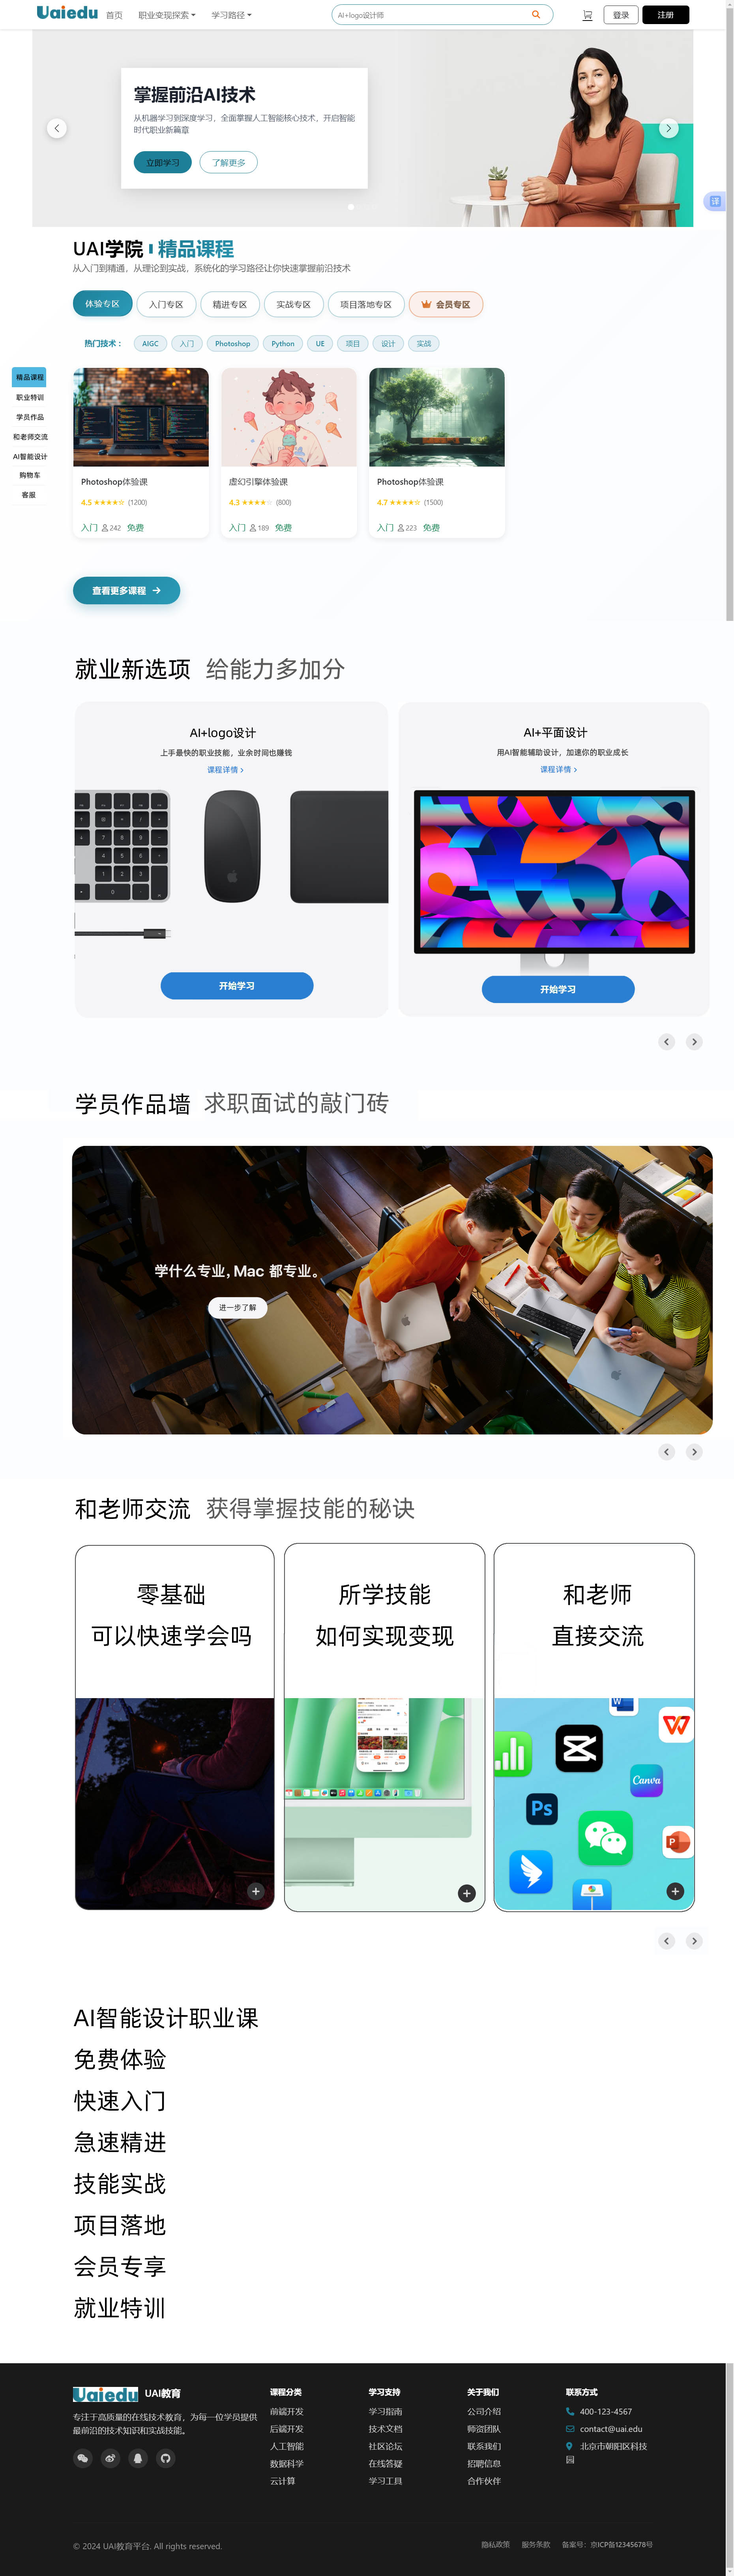
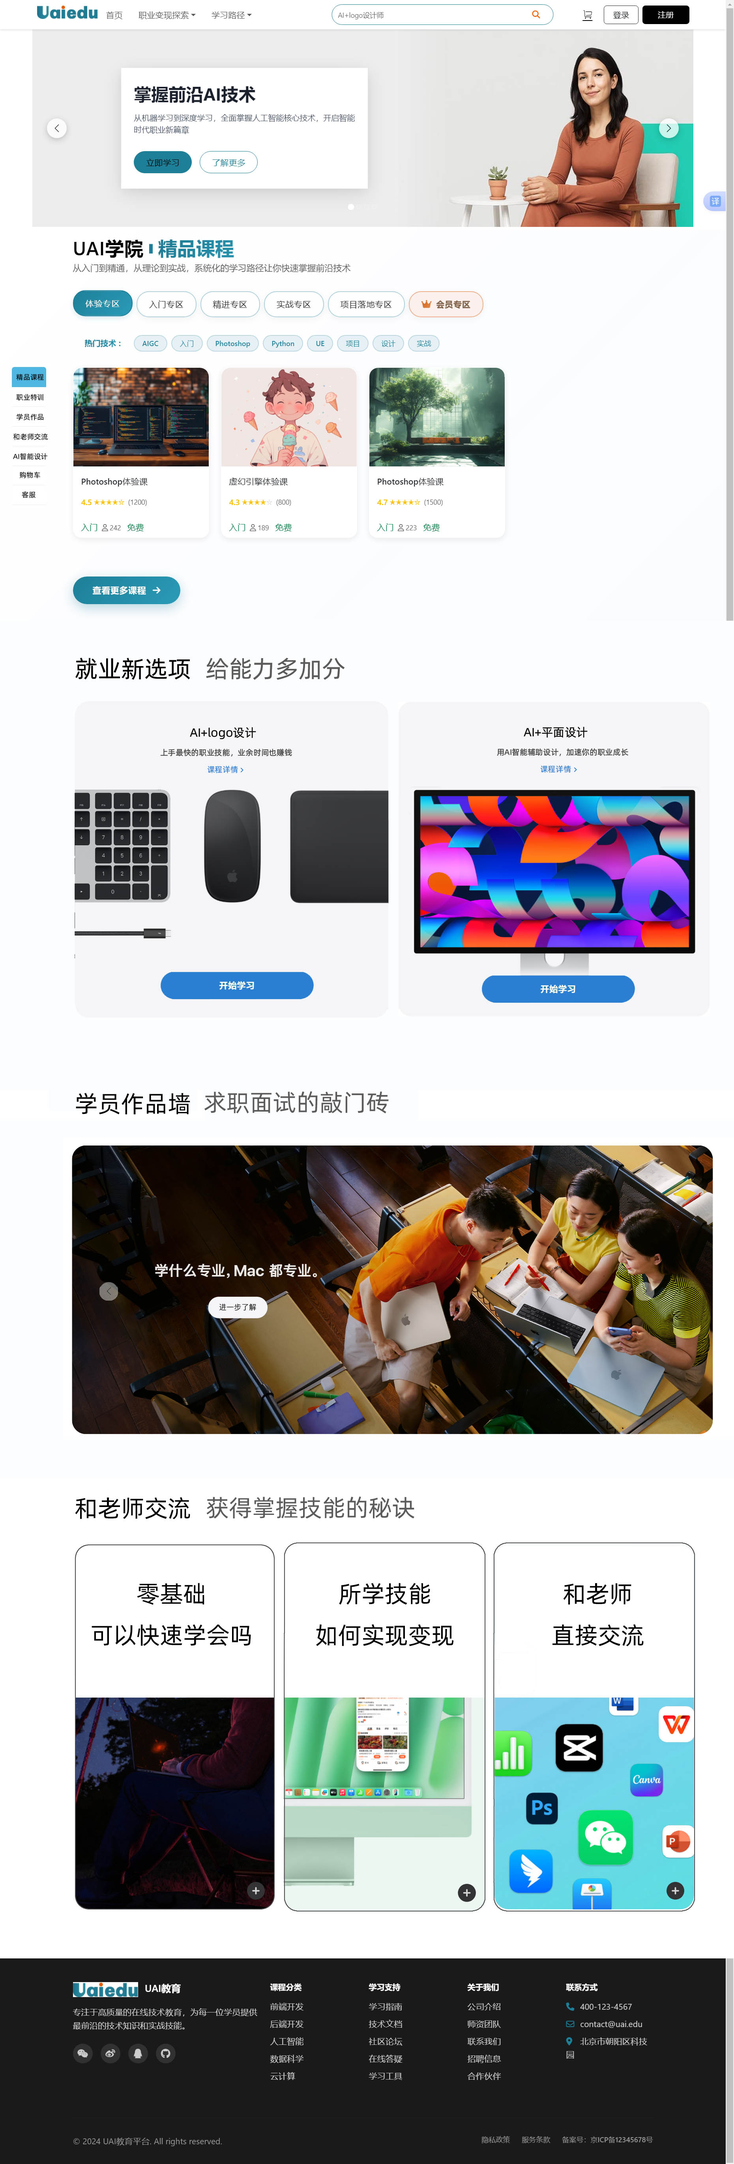
就业模块图贴上了

diff --git a/frontend/src/components/EmploymentSection.vue b/frontend/src/components/EmploymentSection.vue
@@ -1,0 +1,122 @@
+<template>
+  <section class="employment-section py-5">
+    <div class="container">
+      <!-- 标题 -->
+      <div class="row mb-4">
+        <div class="col-12">
+          <h2 class="employment-title mb-0">
+            <span class="title-main">就业新选项</span>
+            <span class="title-sub ms-3">给能力多加分</span>
+          </h2>
+        </div>
+      </div>
+      
+      <!-- 就业课程卡片 -->
+      <div class="row g-4">
+        <!-- AI+logo设计 -->
+        <div class="col-lg-6 col-md-6">
+          <div class="employment-card">
+            <div class="card-image-container">
+              <img 
+                :src="employmentLogoCover" 
+                alt="AI+logo设计课程" 
+                class="img-fluid employment-image"
+              >
+            </div>
+          </div>
+        </div>
+        
+        <!-- AI+平面设计 -->
+        <div class="col-lg-6 col-md-6">
+          <div class="employment-card">
+            <div class="card-image-container">
+              <img 
+                :src="employmentUiCover" 
+                alt="AI+平面设计课程" 
+                class="img-fluid employment-image"
+              >
+            </div>
+          </div>
+        </div>
+      </div>
+    </div>
+  </section>
+</template>
+
+<script setup lang="ts">
+// 导入图片资源
+import employmentLogoCover from '@/assets/images/employment-logo-cover.png'
+import employmentUiCover from '@/assets/images/employment-ui-cover.png'
+</script>
+
+<style scoped>
+/* 就业模块样式 */
+.employment-section {
+  background-color: #ffffff;
+}
+
+/* 标题样式 */
+.employment-title {
+  text-align: left;
+  font-weight: 600;
+  font-size: 2rem;
+  line-height: 1.4;
+}
+
+.title-main {
+  color: #000000;
+}
+
+.title-sub {
+  color: #5c5b5b;
+}
+
+/* 就业卡片样式 */
+.employment-card {
+  position: relative;
+  border-radius: 12px;
+  overflow: hidden;
+  transition: transform 0.3s ease, box-shadow 0.3s ease;
+}
+
+.employment-card:hover {
+  transform: translateY(-5px);
+  box-shadow: 0 10px 30px rgba(0, 0, 0, 0.1);
+}
+
+.card-image-container {
+  position: relative;
+  width: 100%;
+  height: auto;
+}
+
+.employment-image {
+  width: 100%;
+  height: auto;
+  object-fit: cover;
+  border-radius: 12px;
+}
+
+/* 响应式设计 */
+@media (max-width: 768px) {
+  .employment-title {
+    font-size: 1.5rem;
+  }
+  
+  .title-sub {
+    display: block;
+    margin-left: 0 !important;
+    margin-top: 0.5rem;
+  }
+  
+  .employment-card {
+    margin-bottom: 1rem;
+  }
+}
+
+@media (max-width: 576px) {
+  .employment-title {
+    font-size: 1.25rem;
+  }
+}
+</style>

diff --git a/frontend/src/views/HomeView.vue b/frontend/src/views/HomeView.vue
@@ -7,12 +7,13 @@
     </div>
 
     <!-- 课程专区 -->
-    <!-- 整体移动，让‘精品课程’距离轮播图只有6px -->
+    <!-- 整体移动，让'精品课程'距离轮播图只有6px -->
     <div style="padding-top: 6px">
       <CampSection :show-popular-tags="true" :initial-display-count="8" />
     </div>
 
-
+    <!-- 就业模块 -->
+    <EmploymentSection />
 
 
     <!-- 页脚 -->
@@ -105,6 +106,7 @@
 import { onMounted } from 'vue'
 import HeroCarousel from '../components/HeroCarousel.vue'
 import CampSection from '../components/CampSection.vue'
+import EmploymentSection from '../components/EmploymentSection.vue'
 import { useUIStore } from '../store/uiStore'
 
 // 导入图片资源
